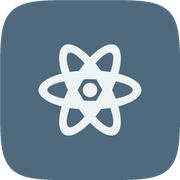
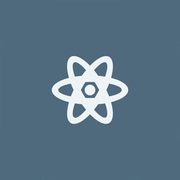
feat: 分享預覽 OG 視覺系統（稜線 App 分享卡 · 方案A 暖米白）
只碰 icon 顯示品質與分享預覽：沒有改 UI、Layout、功能、routing、
API、資料模型、品牌名稱、App Symbol。

- 新增 og-elementquest.png（1200×630，共用母版產出）
- index.html head 補 canonical／og:*／twitter:*，全絕對網址；
  原有 description 保留不覆蓋
- apple-touch-icon.png 重出：原本四角透明，iOS 會把透明自動填黑＝
  主畫面出現黑角。壓平在 icon 自己的色 #4E6A7C（denali 家族色），
  不透明滿版，Symbol 未變。icon-192／512／maskable 未動。
- 同步補上品牌正式檔缺件 elementquest-180.png（與 App 端 byte 一致）

diff --git a/index.html b/index.html
@@ -126,6 +126,28 @@
   /* ---------- 鍵盤可操作的 div（role=button）焦點樣式 ---------- */
   .zone-card:focus-visible, .inv-chip:focus-visible, .diff-card:focus-visible, .opt:focus-visible, .ov-cell.filled:focus-visible, .flashcard:focus-visible{outline:2px solid var(--gold);outline-offset:2px;}
 </style>
+
+<!-- ── 分享預覽（稜線 App 分享卡系統 · 方案A 暖米白）─────────────────────
+     圖由 05_品牌資源\04_行銷素材\13_App分享卡_OG\og_app_card.py 產出，勿手改。
+     ⚠ og:image 必須是絕對網址，而且 GitHub Pages 要含 repo 子路徑（不是網域根）。
+     ⚠ ?v= 是給 FB／LINE 快取用的：換圖沒換 v，各平台會繼續發舊圖好幾天。 -->
+<link rel="canonical" href="https://fullmodel-star.github.io/elementquest/">
+<meta property="og:type" content="website">
+<meta property="og:site_name" content="元素勇者">
+<meta property="og:locale" content="zh_TW">
+<meta property="og:url" content="https://fullmodel-star.github.io/elementquest/">
+<meta property="og:title" content="元素勇者｜週期表 RPG 大冒險">
+<meta property="og:description" content="用 RPG 冒險的方式背週期表：背誦、合成、王國試煉三階段學習法。">
+<meta property="og:image" content="https://fullmodel-star.github.io/elementquest/og-elementquest.png?v=20260903-1">
+<meta property="og:image:type" content="image/png">
+<meta property="og:image:width" content="1200">
+<meta property="og:image:height" content="630">
+<meta property="og:image:alt" content="元素勇者 — 週期表 RPG 大冒險">
+<meta name="twitter:card" content="summary_large_image">
+<meta name="twitter:title" content="元素勇者｜週期表 RPG 大冒險">
+<meta name="twitter:description" content="用 RPG 冒險的方式背週期表：背誦、合成、王國試煉三階段學習法。">
+<meta name="twitter:image" content="https://fullmodel-star.github.io/elementquest/og-elementquest.png?v=20260903-1">
+<meta name="twitter:image:alt" content="元素勇者 — 週期表 RPG 大冒險">
 </head>
 <body>
 <div id="app">
